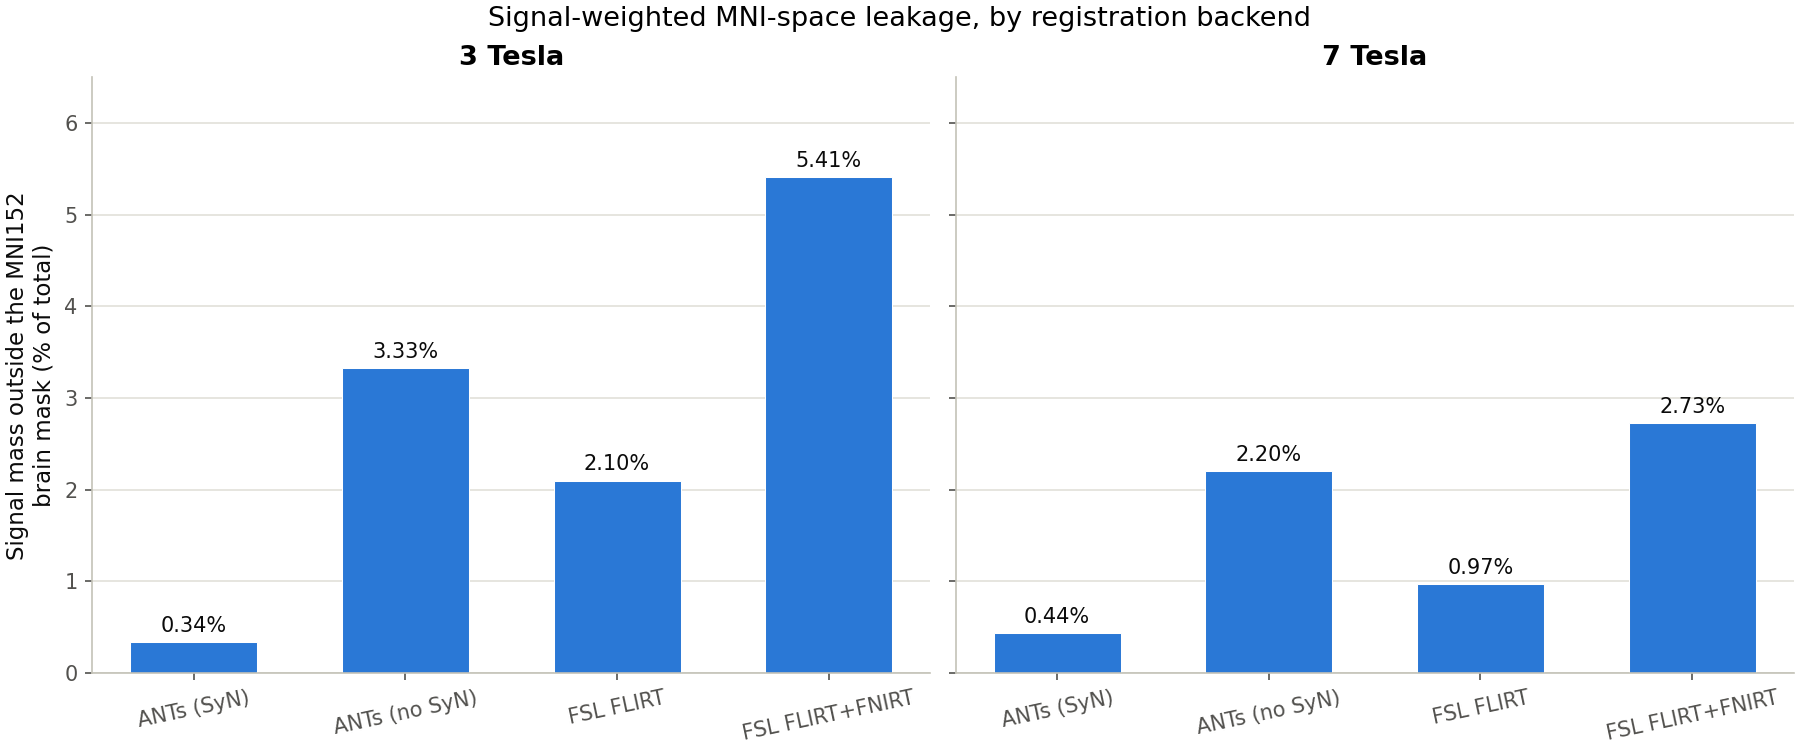
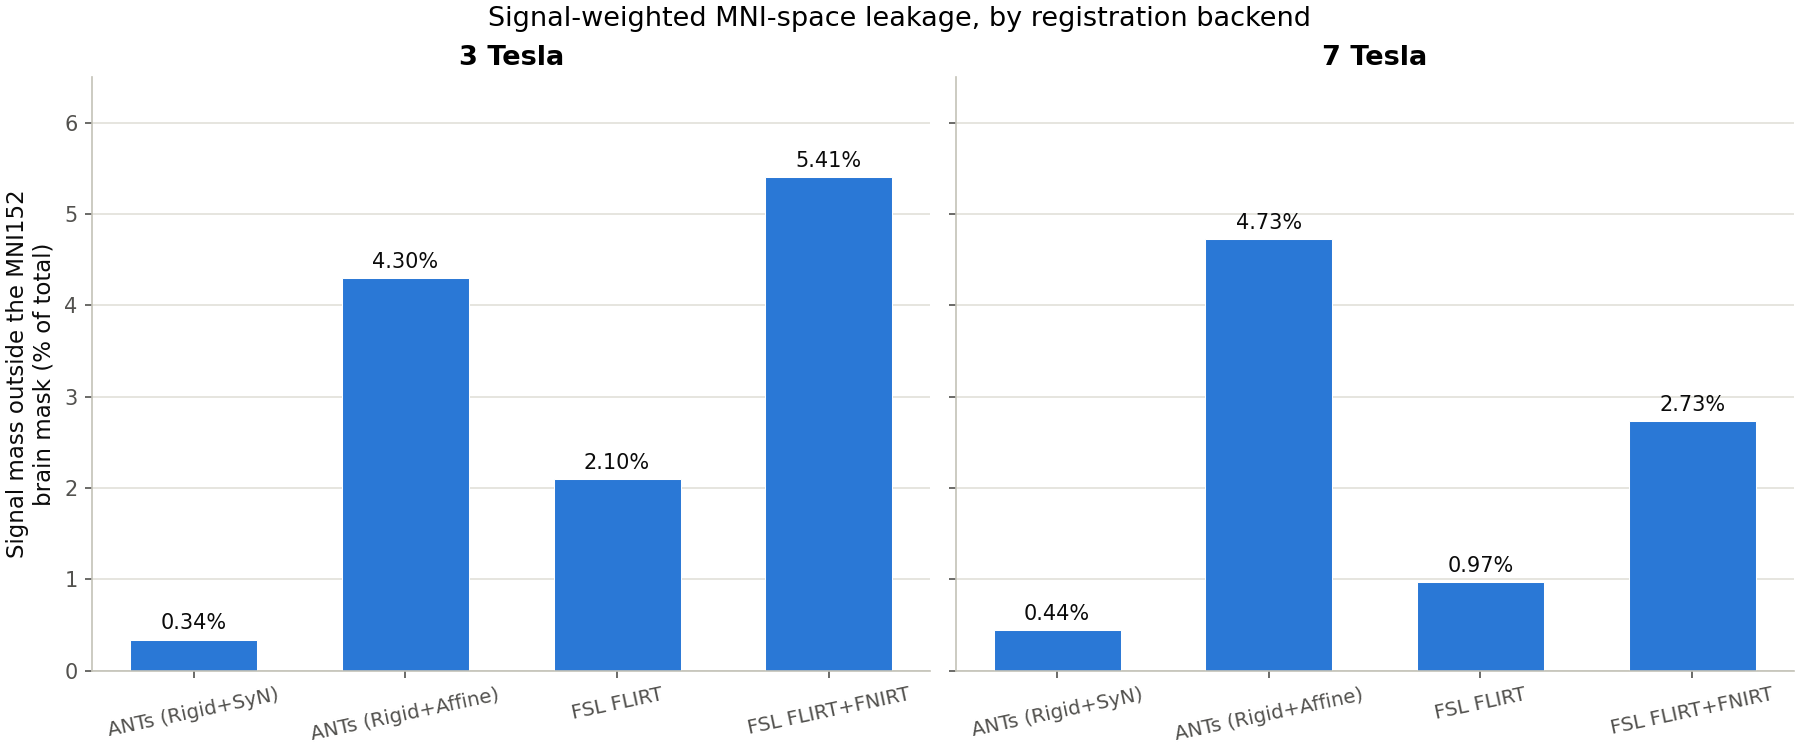
Replace mislabeled ANTs (no SyN) with genuine ANTs (Rigid+Affine), bump to v1.7.6
The previous release's Registration Frameworks fourth backend, "ANTs
(no SyN)", reused mrsiprep's default MRSI->T1w transform with SyN
dropped -- Rigid-only at that stage, since mrsiprep's default
antsRegistrationSyN[sr] never computes a separate Affine stage there.
This replaces it with a genuine ANTs (Rigid+Affine): a real second
antsRegistration transform="a" run at MRSI->T1w (new registration
compute), composed with the already-correct Rigid+Affine T1w->MNI
transform (reused).

Finding, now based on a real Rigid+Affine configuration: ANTs
(Rigid+Affine) is the second-leakiest of all four configurations
(4.30% at 3T, 4.73% at 7T) -- worse than FSL FLIRT-only at both field
strengths, and at 7T even worse than FSL FLIRT+FNIRT. Adding a real
affine correction at this stage increased leakage relative to
rigid-only, flagged explicitly as untested territory for mrsiprep's
own default configuration rather than a recommendation.

docs/vba_benchmark.md's differently-scoped "ANTs (no SyN)" comparison
is unaffected and now cross-references this page to avoid conflating
the two different backend configurations.

diff --git a/docs/benchmarks.md b/docs/benchmarks.md
@@ -130,19 +130,19 @@ MRSI→T1w, rigid+affine+SyN for T1w→MNI — see the transform-stage table
 below, since the two ANTs stages are not symmetric) and **FSL** (FLIRT
 affine, with an FNIRT deformable stage on by default —
 `--no-fsl-deformable` for FLIRT-only). This section compares four
-MRSI→T1w registration configurations — **ANTs (SyN)**, **ANTs (no
-SyN)**, **FSL FLIRT-only**, and **FSL FLIRT+FNIRT** — each against both
-supported T1w registration targets, **brain** (skull-stripped) and
-**brain+CSF** (skull-stripped T1w with the CSF compartment re-added,
-since CSF also produces real MRSI signal that a brain-only target would
-otherwise clip at the boundary).
+MRSI→T1w registration configurations — **ANTs (Rigid+SyN)**, **ANTs
+(Rigid+Affine)**, **FSL FLIRT-only**, and **FSL FLIRT+FNIRT** — each
+against both supported T1w registration targets, **brain**
+(skull-stripped) and **brain+CSF** (skull-stripped T1w with the CSF
+compartment re-added, since CSF also produces real MRSI signal that a
+brain-only target would otherwise clip at the boundary).
 
 **Transform used at each registration stage, by backend:**
 
 | Backend | MRSI → T1w | T1w → MNI |
 |---|---|---|
-| ANTs (SyN) | Rigid + SyN (deformable) — **no separate Affine stage**, `antsRegistrationSyN[sr]` | Rigid + Affine + SyN (deformable), `antsRegistrationSyN[s]` |
-| ANTs (no SyN) | Rigid only (the SyN warp dropped from the `[sr]` run above) | Rigid + Affine (the SyN warp dropped from the `[s]` run above) |
+| ANTs (Rigid+SyN) — mrsiprep's default | Rigid + SyN (deformable) — **no separate Affine stage**, `antsRegistrationSyN[sr]` | Rigid + Affine + SyN (deformable), `antsRegistrationSyN[s]` |
+| ANTs (Rigid+Affine) | Rigid + Affine — a genuine second registration run (`antsRegistration`, `transform="a"`), since mrsiprep's default MRSI→T1w stage never computes an Affine stage to reuse | Rigid + Affine (the SyN warp dropped from the default `[s]` run above — this stage already has a real Affine, so no extra registration needed here) |
 | FSL FLIRT-only | Affine only (FLIRT, 12 DOF, `corratio` cost) | Affine only (FLIRT, 12 DOF) |
 | FSL FLIRT+FNIRT | Affine (FLIRT) + deformable warp (FNIRT, `--fsl-deformable`) | Affine only (FLIRT, 12 DOF) — FNIRT is not used for this stage |
 
@@ -151,22 +151,24 @@ Note that `--fsl-deformable` only adds a deformable (FNIRT) stage to the
 under the FSL backend, in both the FLIRT-only and FLIRT+FNIRT variants
 compared here.
 
-**The two ANTs stages are asymmetric, and it matters for what "no SyN"
-means.** ANTs' MRSI→T1w stage (`antsRegistrationSyN[sr]`) runs a Rigid
-stage followed directly by SyN — `antsRegistrationSyN.sh`'s own `sr`
-code has no separate Affine stage at all (MRSI and T1w start from
-roughly the same subject geometry, so mrsiprep's default skips the
-extra affine correction there). ANTs' T1w→MNI stage
-(`antsRegistrationSyN[s]`) runs the full three-stage Rigid → Affine →
-SyN pipeline, since subject anatomy genuinely differs from the MNI
-template in scale and shape, not just position. **ANTs (no SyN)** in
-this comparison therefore means Rigid-only at the MRSI→T1w stage
-composed with Rigid+Affine at the T1w→MNI stage — not "rigid+affine at
-both stages." `antsRegistration` always writes each linear stage's
-transform to its own independent file regardless of whether a later
-SyN stage also ran, so **ANTs (no SyN)** reuses the exact same
-already-computed registrations as **ANTs (SyN)**, with the deformable
-warp dropped from the resampling chain — no registration recompute.
+**The two ANTs stages are asymmetric, which is why "ANTs (Rigid+Affine)"
+needed a real second registration run, not just a transform dropped from
+the default pipeline.** ANTs' default MRSI→T1w stage
+(`antsRegistrationSyN[sr]`) runs a Rigid stage followed directly by SyN —
+`antsRegistrationSyN.sh`'s own `sr` code has no separate Affine stage at
+all (MRSI and T1w start from roughly the same subject geometry, so
+mrsiprep's default skips the extra affine correction there). Dropping
+SyN from that default leaves Rigid-only, not Rigid+Affine. **ANTs
+(Rigid+Affine)** in this comparison therefore required actually running
+`antsRegistration` with `transform="a"` at the MRSI→T1w stage — genuine
+new registration compute, not a reuse of an already-computed transform.
+ANTs' T1w→MNI stage (`antsRegistrationSyN[s]`) already runs the full
+three-stage Rigid → Affine → SyN pipeline by default, since subject
+anatomy genuinely differs from the MNI template in scale and shape, not
+just position — for that stage, `antsRegistration` always writes each
+linear stage's transform to its own independent file, so the
+already-computed Rigid+Affine transform is reused directly with the SyN
+warp simply dropped, no recompute needed there.
 
 ### Method
 
@@ -175,13 +177,15 @@ the same 3 Tesla and 7 Tesla subjects used above, varying
 `--registration-backend`/`--fsl-deformable` and
 `--registration-t1-target` (6 combinations × 2 subjects = 12 runs). See
 `experiments/registration_backend_benchmark.py` (not published; internal
-validation script). **ANTs (no SyN)** is added on top of this without a
-fresh `mni-norm` run: since `antsRegistration` always writes each linear
-stage's transform to its own independent file, the already-computed
-**ANTs (SyN)** run's Rigid (MRSI→T1w) and Rigid+Affine (T1w→MNI)
-transforms are reused directly, with only the deformable SyN warp
-dropped from the resampling chain at each stage — no registration
-recompute needed for the leakage/overlay results below.
+validation script). **ANTs (Rigid+Affine)** is added on top of this: the
+MRSI→T1w stage is a genuine new `antsRegistration transform="a"` run (2
+subjects × 2 targets = 4 registrations, timed directly), while the
+T1w→MNI stage reuses the already-computed Rigid+Affine transform from
+the default **ANTs (Rigid+SyN)** run (SyN warp dropped, no recompute) —
+so this configuration is partly new compute, partly reused, unlike the
+VBA benchmark's equivalent comparison where both stages could be reused
+directly (see the note there on why the two benchmarks differ in this
+respect).
 
 Leakage is reported as **signal-weighted mass outside the brain mask**:
 at each quality-passing voxel (resampled CRLB ≤ 20, mrsiprep's own default
@@ -215,12 +219,12 @@ each reference mask.
 **3 Tesla subject**, all four backends × both targets, axial slice, same
 intensity scale throughout:
 
-![CrPCr resampled to MNI space, overlaid on the full-head MNI152 template, 3 Tesla subject, 2 columns (brain / brain+CSF) x 4 rows (ANTs SyN / ANTs no SyN / FLIRT / FLIRT+FNIRT)](figures/registration_backend_mni_overlay_3t.png)
+![CrPCr resampled to MNI space, overlaid on the full-head MNI152 template, 3 Tesla subject, 2 columns (brain / brain+CSF) x 4 rows (ANTs Rigid+SyN / ANTs Rigid+Affine / FLIRT / FLIRT+FNIRT)](figures/registration_backend_mni_overlay_3t.png)
 
 **7 Tesla subject**, same layout and intensity-scale convention (its own
 scale, since 7T signal levels differ from 3T):
 
-![CrPCr resampled to MNI space, overlaid on the full-head MNI152 template, 7 Tesla subject, 2 columns (brain / brain+CSF) x 4 rows (ANTs SyN / ANTs no SyN / FLIRT / FLIRT+FNIRT)](figures/registration_backend_mni_overlay_7t.png)
+![CrPCr resampled to MNI space, overlaid on the full-head MNI152 template, 7 Tesla subject, 2 columns (brain / brain+CSF) x 4 rows (ANTs Rigid+SyN / ANTs Rigid+Affine / FLIRT / FLIRT+FNIRT)](figures/registration_backend_mni_overlay_7t.png)
 
 The full-head (non-skull-stripped) MNI152 template makes the skull
 boundary visible as a bright ring; voxels with values below 0.1 are
@@ -228,9 +232,9 @@ rendered transparent so the underlying template stays visible through
 low-signal regions. Signal extending past the skull ring, or with a
 jagged/scalloped rather than smooth outer edge, indicates voxels that have
 leaked beyond the true brain boundary during registration — visible here
-for both FSL variants and for ANTs (no SyN) at both field strengths, all
-three showing a visibly coarser, more scalloped outer edge than the full
-ANTs (SyN) result.
+for both FSL variants and, most noticeably, for ANTs (Rigid+Affine) at
+both field strengths, which shows the coarsest, most scalloped outer edge
+of any of the four configurations.
 
 **Signal-weighted MNI-space leakage, by backend** (brain target;
 brain+CSF is within ±0.3 points of these and shows the same pattern):
@@ -238,42 +242,62 @@ brain+CSF is within ±0.3 points of these and shows the same pattern):
 ![Bar chart: percentage of resampled CrPCr signal mass outside the MNI152 brain mask, by registration backend, faceted by 3 Tesla vs 7 Tesla](figures/registration_backend_mni_outside_comparison.png)
 
 **Total `mni-norm` wall-clock runtime, by backend** (same two subjects,
-averaged across the `brain`/`brain+CSF` targets) — **ANTs (no SyN)** is
-not a full `mni-norm` run (see Method above), so it isn't a like-for-like
-total-pipeline number; instead its bar reports the **registration-only**
-wall-clock time (both stages combined: Rigid MRSI→T1w + Rigid+Affine
-T1w→MNI, timed directly via `mrsiprep.interfaces.ants.register()`,
-`nthreads=16` matching the other runs' default), which should be read as
-a lower bound on how much a full `mni-norm` run would take without the
-deformable stage, not a directly comparable total:
+averaged across the `brain`/`brain+CSF` targets) — **ANTs (Rigid+Affine)**
+is not a full `mni-norm` run (see Method above), so it isn't a
+like-for-like total-pipeline number; instead its bar reports the
+**registration-only** wall-clock time (both stages combined, timed
+directly via `mrsiprep.interfaces.ants.register()`, `nthreads=16`
+matching the other runs' default), which should be read as a lower bound
+on how much a full `mni-norm` run would take, not a directly comparable
+total:
 
-![Bar chart: total mni-norm runtime in minutes, by registration backend (ANTs SyN, ANTs no SyN, FSL FLIRT, FSL FLIRT+FNIRT), for 3 Tesla vs 7 Tesla](figures/registration_backend_runtime.png)
+![Bar chart: total mni-norm runtime in minutes, by registration backend (ANTs Rigid+SyN, ANTs Rigid+Affine, FSL FLIRT, FSL FLIRT+FNIRT), for 3 Tesla vs 7 Tesla](figures/registration_backend_runtime.png)
 
 ### Interpretation
 
-* **ANTs (SyN) has the least signal-weighted leakage at both field
-  strengths** (0.34% at 3T, 0.44% at 7T) — roughly 6-10× less than FSL
-  FLIRT-only (2.1%, 0.97%) and 12-16× less than FSL FLIRT+FNIRT (5.4%,
-  2.7%). Unlike the raw voxel-count metric, this ranking agrees with the
-  overlay figures' visual impression of ANTs (SyN) producing the
-  sharpest, most anatomically detailed result. In absolute terms all
-  backends leak well under 6% of total signal mass, so none is
-  catastrophically wrong — but the relative gap between backends is real
-  and consistent across both subjects.
+* **ANTs (Rigid+SyN), mrsiprep's default, has the least signal-weighted
+  leakage at both field strengths** (0.34% at 3T, 0.44% at 7T) — roughly
+  6-10× less than FSL FLIRT-only (2.1%, 0.97%) and 12-16× less than FSL
+  FLIRT+FNIRT (5.4%, 2.7%). Unlike the raw voxel-count metric, this
+  ranking agrees with the overlay figures' visual impression of ANTs
+  (Rigid+SyN) producing the sharpest, most anatomically detailed result.
+  In absolute terms all backends leak well under 6% of total signal
+  mass, so none is catastrophically wrong — but the relative gap between
+  backends is real and consistent across both subjects.
 
-* **The deformable SyN stage is doing real, measurable work for leakage
-  — unlike its effect on VBA detection power (see the [Voxel-Based
-  Detection Benchmark](vba_benchmark.md), where dropping SyN never
-  clearly hurt, and sometimes helped, focal-signal recovery).** ANTs (no
-  SyN) leaks roughly 10× more signal mass than the full ANTs (SyN)
-  pipeline at 3T (3.3% vs. 0.34%) and roughly 5× more at 7T (2.2% vs.
-  0.44%) — at 3T it is even worse than FSL FLIRT-only (3.3% vs. 2.1%).
-  This is the clearest evidence in either benchmark that SyN's
-  contribution is real but task-dependent: it meaningfully tightens the
-  anatomical boundary (this benchmark), without reliably improving
-  recovery of a small planted focal signal (the VBA benchmark) — the two
-  are measuring different things, and a registration choice that's right
-  for one task is not automatically right for the other.
+* **ANTs (Rigid+Affine) is, surprisingly, the second-leakiest of all
+  four configurations — worse than either FSL variant at 7T.** It leaks
+  4.30% of signal mass at 3T and 4.73% at 7T: roughly 12× more than the
+  default ANTs (Rigid+SyN) pipeline at 3T and roughly 11× more at 7T,
+  worse than FSL FLIRT-only at both field strengths (2.1%, 0.97%), and
+  at 7T even worse than FSL FLIRT+FNIRT (4.73% vs. 2.73%). This is a
+  genuinely unexpected result: adding a real affine correction on top of
+  rigid alignment at the MRSI→T1w stage did not reduce leakage relative
+  to rigid-only, it *increased* it. A plausible explanation is that the
+  affine stage's extra degrees of freedom (scale, shear) are being fit
+  to noise or local signal structure in the relatively low-resolution,
+  low-contrast MRSI reference image without a deformable stage
+  afterward to correct any resulting distortion — since ANTs' own
+  default pipeline never uses affine at this stage without immediately
+  following it with SyN, this backend combination is untested territory
+  for mrsiprep's own default configuration, and this result is a data
+  point against introducing it as an option without further
+  investigation, not a recommendation for it.
+
+* **This mirrors the direction (if not the exact numbers) of the VBA
+  Detection Benchmark's finding that ANTs' rigid+affine configuration
+  there performed at least as well as, and sometimes better than, the
+  full SyN pipeline for focal-signal detection** (see the [Voxel-Based
+  Detection Benchmark](vba_benchmark.md)) — but the two benchmarks are
+  not directly comparable: the VBA benchmark's "no SyN" comparison reused
+  mrsiprep's actual default transforms with SyN dropped (Rigid-only at
+  MRSI→T1w, since that is what mrsiprep's default pipeline already
+  computes there), while this benchmark's ANTs (Rigid+Affine) required a
+  genuinely different, non-default MRSI→T1w registration (a real Affine
+  stage that mrsiprep's own default pipeline never runs at that stage).
+  The two results are not in tension with each other; they are testing
+  different registration configurations under different tasks, and
+  should not be read as contradicting one another.
 
 * **FSL FLIRT+FNIRT leaks more signal mass than FLIRT-only, at both field
   strengths** (5.4% vs. 2.1% at 3T; 2.7% vs. 0.97% at 7T) — i.e. adding
@@ -283,24 +307,29 @@ deformable stage, not a directly comparable total:
   superseded mask-based metric. That earlier result was the mask-dilation
   artifact described above; once leakage is weighted by actual signal
   magnitude rather than counting dilated boundary voxels, FNIRT is
-  consistently the leakiest of the four configurations.
+  leakier than FLIRT-only, though less leaky than ANTs (Rigid+Affine) at
+  either field strength.
 
-* **FNIRT's extra runtime cost is not paying for reduced leakage.** At 3T,
-  FNIRT (11.6 min) costs roughly 3.8× FLIRT-only (3.1 min) and is
-  comparable to ANTs (SyN) (9.3 min); at 7T the gap widens sharply — FNIRT
+* **Registration-only runtime for ANTs (Rigid+Affine) is well under a
+  minute at either field strength** (0.28 min at 3T, 0.73 min at 7T —
+  see the note above on why this isn't a like-for-like full-pipeline
+  comparison), far faster than any of the full `mni-norm` runs. But
+  given its leakage result above, this speed is not a useful tradeoff on
+  its own — a fast registration that leaks more signal than either FSL
+  variant is not obviously preferable to FSL FLIRT-only (3.1-11.2 min,
+  2.1%/0.97% leakage) purely on a speed/accuracy basis. **FNIRT's extra
+  runtime cost is not paying for reduced leakage either:** at 3T, FNIRT
+  (11.6 min) costs roughly 3.8× FLIRT-only (3.1 min) and is comparable
+  to ANTs (Rigid+SyN) (9.3 min); at 7T the gap widens sharply — FNIRT
   (53.0 min) is roughly 4.7× FLIRT-only (11.2 min) and nearly 2× ANTs
-  (SyN) itself (27.0 min), making it the slowest of all four options
-  despite also having the highest signal-weighted leakage. ANTs (no SyN)
-  is, unsurprisingly, by far the fastest option (registration-only: well
-  under a minute at either field strength — see the note above on why
-  this isn't a like-for-like full-pipeline number), but that speed comes
-  with the leakage cost described above, not for free. Combined with the
-  leakage result above, there is no longer a clear case for
-  `--fsl-deformable` over FLIRT-only purely on these two metrics; ANTs
-  (SyN) remains the best combination of accuracy and runtime at both
-  field strengths for tasks where leakage/boundary accuracy matters, and
-  `--no-fsl-deformable` is a reasonable choice for FSL users who want to
-  avoid FNIRT's runtime cost without a leakage penalty.
+  (Rigid+SyN) itself (27.0 min), making it the slowest of the three
+  full-pipeline options despite also having higher leakage than either
+  ANTs (Rigid+SyN) or FSL FLIRT-only. There is no longer a clear case
+  for `--fsl-deformable` over FLIRT-only purely on these two metrics;
+  ANTs (Rigid+SyN) remains the best combination of accuracy and runtime
+  among the full-pipeline options, and `--no-fsl-deformable` is a
+  reasonable choice for FSL users who want to avoid FNIRT's runtime cost
+  without a leakage penalty.
 
 * **Brain vs. brain+CSF as the T1w registration target has a small effect
   that flips direction between field strengths.** At 3T, brain+CSF is

diff --git a/docs/changelog.md b/docs/changelog.md
@@ -2,6 +2,31 @@
 
 ## Unreleased
 
+- Corrected the Registration Frameworks benchmark's fourth registration
+  configuration (`docs/benchmarks.md`): the previous release's "ANTs (no
+  SyN)" reused mrsiprep's default MRSI→T1w transform with SyN dropped,
+  which is **Rigid-only** at that stage (mrsiprep's default
+  `antsRegistrationSyN[sr]` never computes a separate Affine stage there
+  to fall back to) — not a genuine Rigid+Affine configuration. This
+  release replaces it with **ANTs (Rigid+Affine)**: a real second
+  `antsRegistration transform="a"` run at the MRSI→T1w stage (new
+  registration compute, 2 subjects × 2 targets), composed with the
+  already-correct Rigid+Affine T1w→MNI transform (reused, no recompute
+  needed there). Finding, now based on a genuine Rigid+Affine
+  configuration: ANTs (Rigid+Affine) is the **second-leakiest** of all
+  four configurations — 4.30% signal mass leakage at 3T and 4.73% at 7T,
+  roughly 11-12× worse than the default ANTs (Rigid+SyN) pipeline, worse
+  than FSL FLIRT-only at both field strengths, and at 7T even worse than
+  FSL FLIRT+FNIRT. Adding a real affine correction at this stage
+  increased leakage relative to rigid-only, a genuinely unexpected
+  result flagged explicitly as untested territory for mrsiprep's own
+  default configuration (which never uses affine at this stage without
+  immediately following it with SyN), not a recommendation for using it.
+  `docs/vba_benchmark.md`'s own, differently-scoped "ANTs (no SyN)"
+  comparison (Rigid-only at MRSI→T1w, reusing existing transforms, no
+  new registration compute) is unaffected by this change and now
+  cross-references this page to avoid the two configurations being
+  conflated.
 - Added **ANTs (no SyN)** as a fourth registration configuration to the
   Registration Frameworks benchmark (`docs/benchmarks.md`), reusing the
   already-computed ANTs (SyN) run's linear-stage transforms with the

diff --git a/docs/index.md b/docs/index.md
@@ -3,7 +3,7 @@
 *MRSIPrep* is a preprocessing and derivative-generation pipeline for already
 quantified whole-brain MRSI maps, run as a BIDS App via Docker.
 
-![version](https://img.shields.io/badge/version-v1.7.5-blue)
+![version](https://img.shields.io/badge/version-v1.7.6-blue)
 [![e2e mni-norm](https://img.shields.io/github/actions/workflow/status/MRSI-Psychosis-UP/MRSIPrep/e2e-mni-norm.yml?label=e2e%20mni-norm&color=success)](https://github.com/MRSI-Psychosis-UP/MRSIPrep/actions/workflows/e2e-mni-norm.yml)
 [![e2e parc-con](https://img.shields.io/github/actions/workflow/status/MRSI-Psychosis-UP/MRSIPrep/e2e-parc-con.yml?label=e2e%20parc-con&color=success)](https://github.com/MRSI-Psychosis-UP/MRSIPrep/actions/workflows/e2e-parc-con.yml)
 [![docs](https://app.readthedocs.org/projects/mrsiprep/badge/?version=stable)](https://mrsiprep.readthedocs.io/en/stable/)

diff --git a/README.md b/README.md
@@ -2,7 +2,7 @@
 
 
 
-![version](https://img.shields.io/badge/version-v1.7.5-blue)
+![version](https://img.shields.io/badge/version-v1.7.6-blue)
 [![e2e mni-norm](https://img.shields.io/github/actions/workflow/status/MRSI-Psychosis-UP/MRSIPrep/e2e-mni-norm.yml?label=e2e%20mni-norm&color=success)](https://github.com/MRSI-Psychosis-UP/MRSIPrep/actions/workflows/e2e-mni-norm.yml)
 [![e2e parc-con](https://img.shields.io/github/actions/workflow/status/MRSI-Psychosis-UP/MRSIPrep/e2e-parc-con.yml?label=e2e%20parc-con&color=success)](https://github.com/MRSI-Psychosis-UP/MRSIPrep/actions/workflows/e2e-parc-con.yml)
 [![docs](https://app.readthedocs.org/projects/mrsiprep/badge/?version=stable)](https://mrsiprep.readthedocs.io/en/stable/)

diff --git a/docs/vba_benchmark.md b/docs/vba_benchmark.md
@@ -22,6 +22,13 @@ later SyN stage also ran, so this comparison reuses the exact same
 already-computed registrations with no recompute — see "Runs compared"
 below.
 
+(The [Registration Frameworks benchmark](benchmarks.md) separately
+compares a genuine **ANTs Rigid+Affine** configuration — a real second
+registration run with an actual Affine stage at MRSI→T1w, not a reuse
+of this page's Rigid-only transform. That page's ANTs (Rigid+Affine)
+and this page's ANTs (no SyN) are different registration configurations
+that happen to share a T1w→MNI stage; don't conflate the two.)
+
 ## Dataset
 
 **SynthMRSI-VBA-Project** is a synthetic validation dataset: 32 dummy
